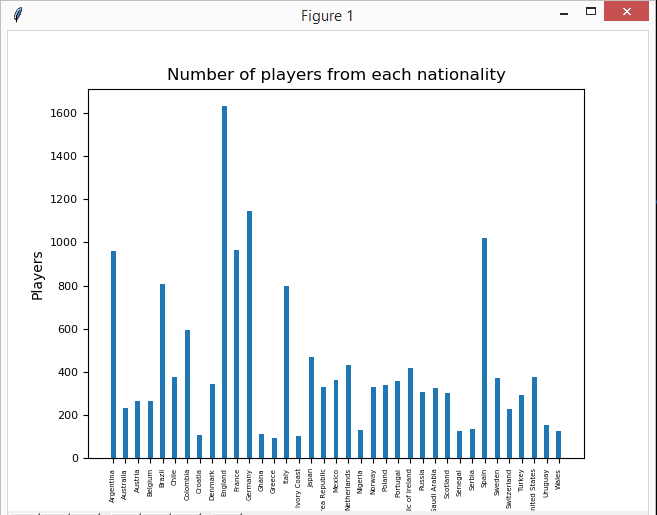
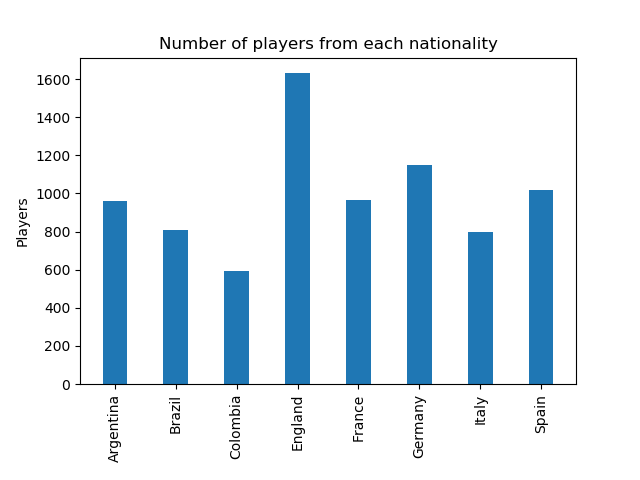
Fixed question 2 plot

diff --git a/assignment_3/fifa_questions.py b/assignment_3/fifa_questions.py
@@ -64,45 +64,41 @@ def bottom(dic, count):
     return(bottom)
 
 
-#Which nationality is the most frequent amongst all players
+# Which nationality is the most frequent amongst all players
 def question_2():
 
-    #retrieve all nationalities in the dataset
+    # Retrieve all nationalities in the dataset
     nationalities = np.unique(fifa_csv[:, 14])
 
     nationality_players = {}
     for nationality in nationalities:
         nationality_players[nationality] = int(fifa_csv[(fifa_csv[:, 14] == nationality)].shape[0])
 
-    #sum of all players
+    # Sum of all players
     summary = sum(nationality_players.values())
 
-
-    #get the percentage of players for each nationality
+    # Get the percentage of players for each nationality
     percentages = {nationality: 100 * nationality_players[nationality] / summary for nationality in nationality_players.keys()}
 
     labels = []
     totals = []
 
-    #get the nationalities that have more than 0.5% of all players
+    # Get the nationalities that have more than 0.5% of all players
     for nationality, percentage in percentages.items():
-        if percentage > 0.5:
+        if percentage > 3.0:
             labels.append(nationality)
             totals.append(nationality_players[nationality])
-
-
-
-
 
     plt.bar(labels, totals, width=0.4, linewidth=0, align='center')
     title = "Number of players from each nationality"
     plt.title(title, fontsize=12)
-    plt.tick_params(axis='x', which='major', labelsize=5)
-    plt.tick_params(axis='y', which='major', labelsize=8)
+    plt.tick_params(axis='x', which='major')
+    plt.tick_params(axis='y', which='major')
+    plt.subplots_adjust(bottom=0.2)
     plt.xticks(rotation=90)
     plt.xticks(labels)
     plt.ylabel("Players")
-    plt.show()
+    plt.savefig("fifa_question_2.png")
 
 
 # What is the difference between the release clause and the value of the top 10 most valuable players?
@@ -193,10 +189,8 @@ def question_5():
     print("On average, the value of a player is equivalent to {} times his estimated yearly salary".format(round(av_players_value/av_players_yearly_wage, 2)))
  
 
-    
-
-question_1()
+#question_1()
 question_2()
-question_3()
-question_4()
-question_5()
+#question_3()
+#question_4()
+#question_5()
